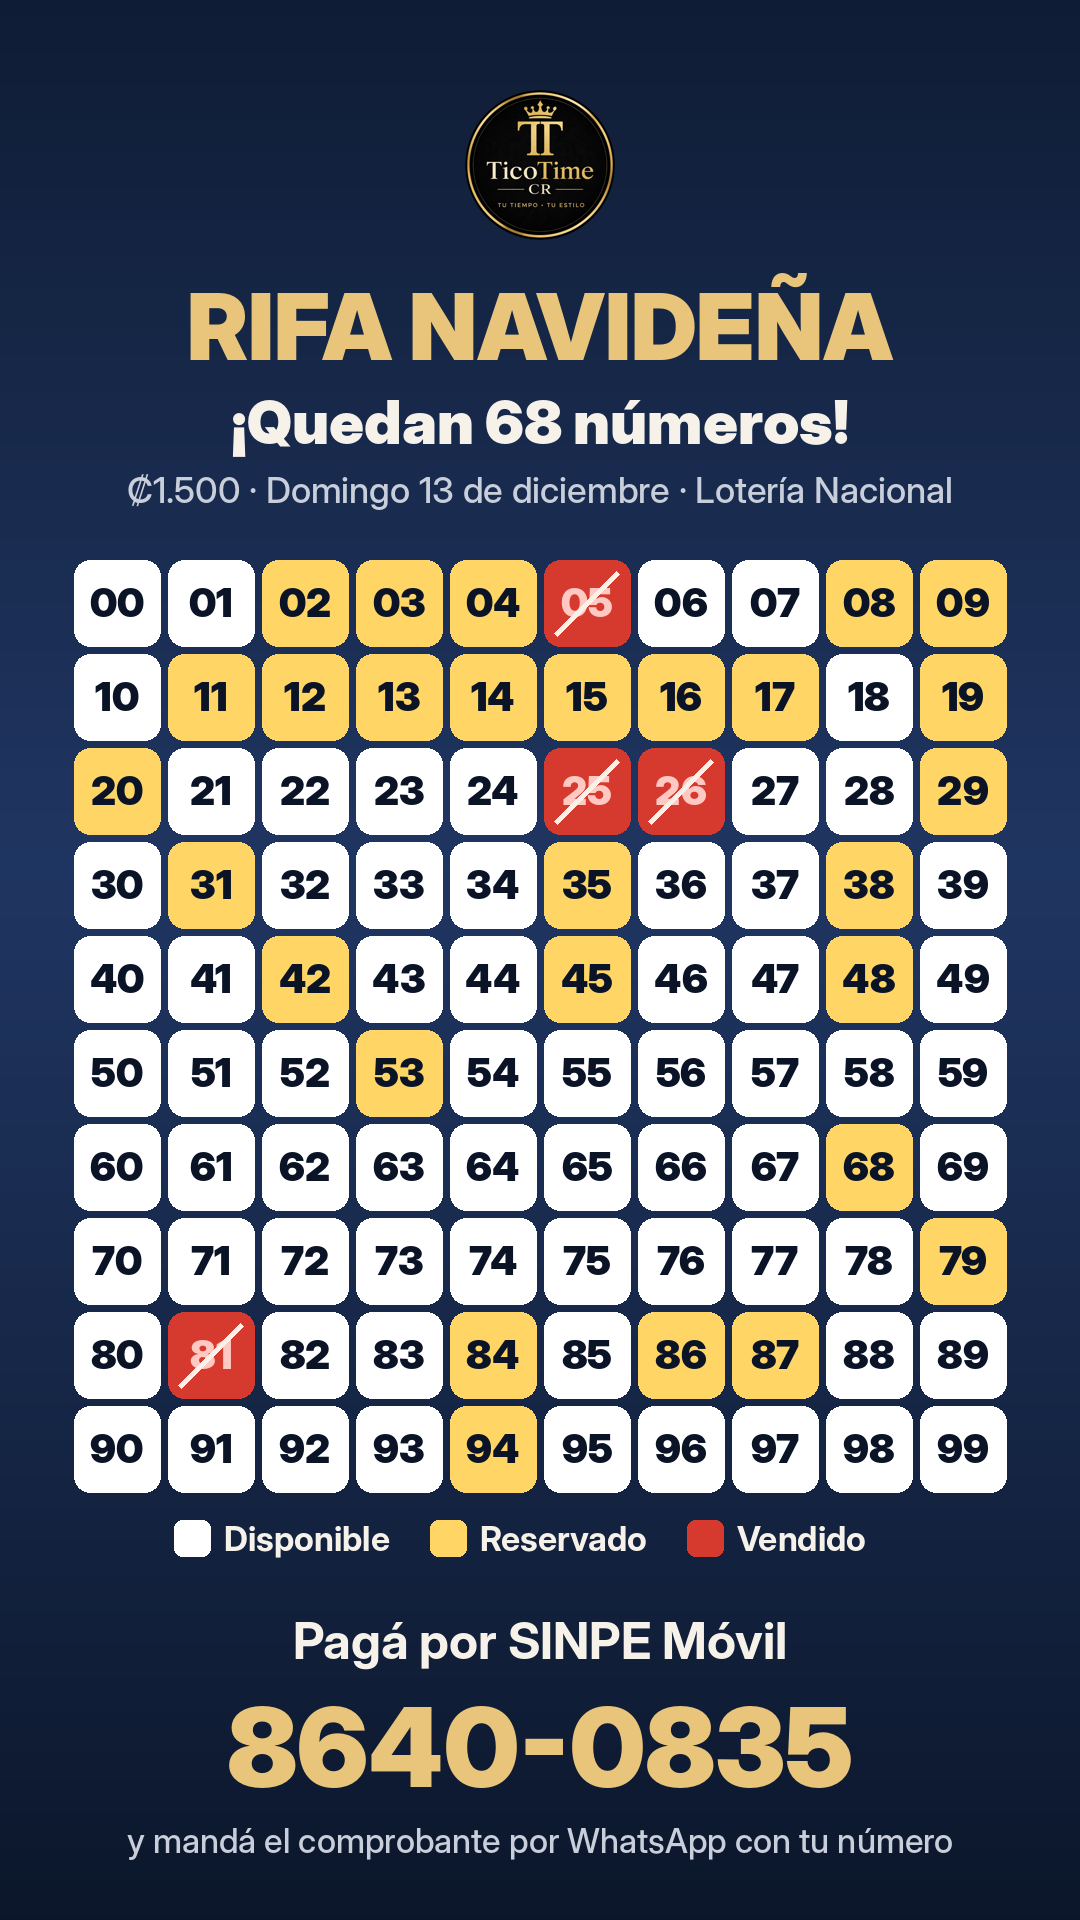
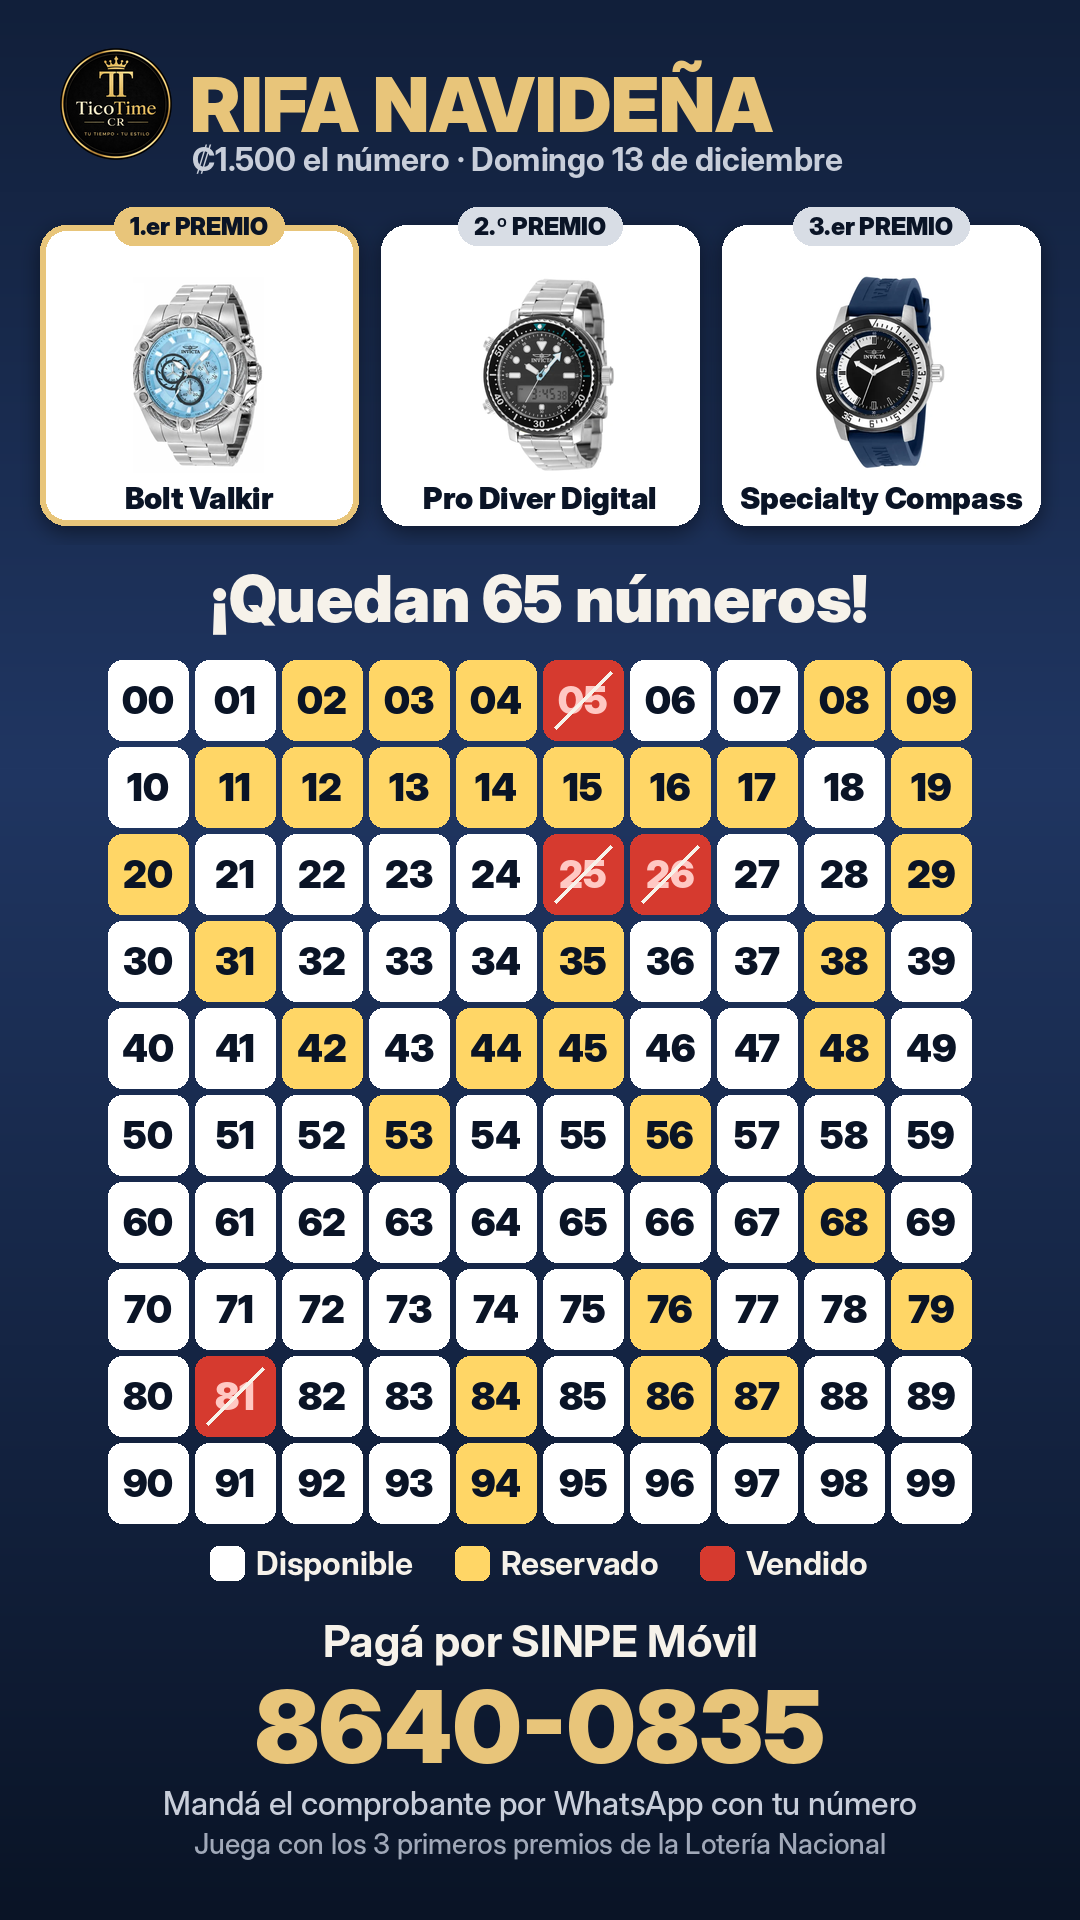
Rifa: tablero con los 3 premios (65 libres)
Claude-Session: https://claude.ai/code/session_019bgvEJfhofkLun4Az8h5UL

diff --git a/social/engine/make_tablero_rifa.py b/social/engine/make_tablero_rifa.py
@@ -1,41 +1,55 @@
-# Historia 1080x1920 con el tablero 00-99 de la rifa (vendidos tachados).
+# Historia 1080x1920 con los 3 premios y el tablero 00-99 de la rifa (vendidos tachados).
 # uso: python3 social/engine/make_tablero_rifa.py "01,15,33" ["07,08"]   (pagados, reservados opcional)
 #      -> social/reels/rifa-tablero.png
 import sys, os
-from PIL import Image, ImageDraw, ImageFont
+from PIL import Image, ImageDraw, ImageFont, ImageFilter
 ROOT=os.path.dirname(os.path.dirname(os.path.dirname(os.path.abspath(__file__))))
 W,H=1080,1920
 BLK='/usr/share/fonts/opentype/inter/InterDisplay-Black.otf'; BLD='/usr/share/fonts/opentype/inter/InterDisplay-Bold.otf'; MED='/usr/share/fonts/opentype/inter/InterDisplay-Medium.otf'
-GOLD=(232,197,122); WHITE=(246,242,234); RED=(214,58,47); NAVY=(10,20,38); YEL=(255,214,102)
+GOLD=(232,197,122); WHITE=(246,242,234); RED=(214,58,47); NAVY=(10,20,38); YEL=(255,214,102); MUT=(200,206,218)
 def nums(s): return {int(x) for x in s.replace(' ','').split(',') if x.strip().isdigit()}
 pag=nums(sys.argv[1]) if len(sys.argv)>1 else set(); res=nums(sys.argv[2]) if len(sys.argv)>2 else set(); res-=pag
 im=Image.new('RGB',(W,H),NAVY); d=ImageDraw.Draw(im)
 for y in range(H):
-    k=1-abs(y-H*0.45)/(H*0.6); d.line([(0,y),(W,y)],fill=(int(10+22*k),int(20+34*k),int(38+60*k)))
+    k=max(0,1-abs(y-H*0.4)/(H*0.6)); d.line([(0,y),(W,y)],fill=(int(10+22*k),int(20+34*k),int(38+60*k)))
 F=lambda p,s: ImageFont.truetype(p,s)
-def ct(y,t,f,c):
-    w=d.textlength(t,font=f); d.text(((W-w)/2,y),t,font=f,fill=c)
-logo=Image.open(os.path.join(ROOT,'public/assets/logo.png')).convert('RGBA').resize((150,150)); im.paste(logo,((W-150)//2,90),logo)
-ct(270,'RIFA NAVIDEÑA',F(BLK,92),GOLD)
+def ct(y,t,f,c,cx=W/2):
+    w=d.textlength(t,font=f); d.text((cx-w/2,y),t,font=f,fill=c)
+# encabezado
+logo=Image.open(os.path.join(ROOT,'public/assets/logo.png')).convert('RGBA').resize((112,112),Image.LANCZOS); im.paste(logo,(60,48),logo)
+d.text((190,58),'RIFA NAVIDEÑA',font=F(BLK,76),fill=GOLD)
+d.text((192,140),'₡1.500 el número · Domingo 13 de diciembre',font=F(BLD,32),fill=MUT)
+# premios
+PZ=[('323','1.er PREMIO','Bolt Valkir',GOLD),('313','2.º PREMIO','Pro Diver Digital',(216,221,229)),('347','3.er PREMIO','Specialty Compass',(216,221,229))]
+cw,ch,gap=318,300,23; x=(W-3*cw-2*gap)//2; y0=225
+for ref,lab,name,col in PZ:
+    sh=Image.new('RGBA',(cw+40,ch+40),(0,0,0,0)); ImageDraw.Draw(sh).rounded_rectangle([20,26,cw+20,ch+26],26,fill=(0,0,0,120)); im.paste(sh.filter(ImageFilter.GaussianBlur(10)),(x-20,y0-20),sh.filter(ImageFilter.GaussianBlur(10)))
+    d.rounded_rectangle([x,y0,x+cw,y0+ch],26,fill=(255,255,255),outline=col if ref=='323' else None,width=6)
+    w=Image.open(os.path.join(ROOT,f'public/assets/disponibles/{ref}.webp')).convert('RGB'); s=min((cw-40)/w.width,(ch-96)/w.height); w=w.resize((int(w.width*s),int(w.height*s)),Image.LANCZOS)
+    im.paste(w,(x+(cw-w.width)//2,y0+44))
+    f=F(BLK,24); tw=d.textlength(lab,font=f); d.rounded_rectangle([x+cw/2-tw/2-16,y0-18,x+cw/2+tw/2+16,y0+20],20,fill=col); d.text((x+cw/2-tw/2,y0-14),lab,font=f,fill=NAVY)
+    ct(y0+ch-46,name,F(BLK,30),NAVY,x+cw/2)
+    x+=cw+gap
+# cuántos quedan
 libres=100-len(pag)-len(res)
-ct(385,f'¡Quedan {libres} números!' if libres<100 else '¡Todos los números disponibles!',F(BLK,60),WHITE)
-ct(468,'₡1.500 · Domingo 13 de diciembre · Lotería Nacional',F(MED,36),(200,206,218))
-x0,y0,cs,g=70,560,86,8
+ct(560,f'¡Quedan {libres} números!' if libres<100 else '¡Todos los números disponibles!',F(BLK,64),WHITE)
+# tablero
+cs,g=80,7; gx=(W-10*cs-9*g)//2; gy=660
 for n in range(100):
-    r,c=divmod(n,10); x=x0+c*(cs+g)+ (W-2*x0-10*cs-9*g)//2; y=y0+r*(cs+g)
+    r,c=divmod(n,10); x=gx+c*(cs+g); y=gy+r*(cs+g); t=f'{n:02d}'; f=F(BLK,38); w=d.textlength(t,font=f)
     if n in pag:
-        d.rounded_rectangle([x,y,x+cs,y+cs],16,fill=RED); t=f'{n:02d}'; f=F(BLK,40); w=d.textlength(t,font=f)
-        d.text((x+(cs-w)/2,y+18),t,font=f,fill=(255,200,195)); d.line([(x+12,y+cs-12),(x+cs-12,y+12)],fill=WHITE,width=6)
+        d.rounded_rectangle([x,y,x+cs,y+cs],14,fill=RED); d.text((x+(cs-w)/2,y+17),t,font=f,fill=(255,200,195)); d.line([(x+12,y+cs-12),(x+cs-12,y+12)],fill=WHITE,width=5)
     elif n in res:
-        d.rounded_rectangle([x,y,x+cs,y+cs],16,fill=YEL); t=f'{n:02d}'; f=F(BLK,40); w=d.textlength(t,font=f); d.text((x+(cs-w)/2,y+18),t,font=f,fill=NAVY)
+        d.rounded_rectangle([x,y,x+cs,y+cs],14,fill=YEL); d.text((x+(cs-w)/2,y+17),t,font=f,fill=NAVY)
     else:
-        d.rounded_rectangle([x,y,x+cs,y+cs],16,fill=(255,255,255)); t=f'{n:02d}'; f=F(BLK,40); w=d.textlength(t,font=f); d.text((x+(cs-w)/2,y+18),t,font=f,fill=NAVY)
-yl=y0+10*(cs+g)+20
+        d.rounded_rectangle([x,y,x+cs,y+cs],14,fill=(255,255,255)); d.text((x+(cs-w)/2,y+17),t,font=f,fill=NAVY)
+yl=gy+10*(cs+g)+14
 items=[((255,255,255),'Disponible'),(YEL,'Reservado'),(RED,'Vendido')]
-fx=F(BLD,34); tot=sum(50+d.textlength(t,font=fx)+40 for _,t in items); x=(W-tot)/2
+fx=F(BLD,32); tot=sum(48+d.textlength(t,font=fx)+40 for _,t in items)-40; x=(W-tot)/2
 for c,t in items:
-    d.rounded_rectangle([x,yl,x+36,yl+36],8,fill=c); d.text((x+50,yl-2),t,font=fx,fill=WHITE); x+=50+d.textlength(t,font=fx)+40
-ct(yl+90,'Pagá por SINPE Móvil',F(BLD,50),WHITE)
-ct(yl+160,'8640-0835',F(BLK,110),GOLD)
-ct(yl+300,'y mandá el comprobante por WhatsApp con tu número',F(MED,34),(200,206,218))
-out=os.path.join(ROOT,'social/reels/rifa-tablero.png'); im.save(out); print('ok',out,'libres',libres)
+    d.rounded_rectangle([x,yl+2,x+34,yl+36],8,fill=c); d.text((x+46,yl),t,font=fx,fill=WHITE); x+=48+d.textlength(t,font=fx)+40
+ct(yl+70,'Pagá por SINPE Móvil',F(BLD,44),WHITE)
+ct(yl+122,'8640-0835',F(BLK,100),GOLD)
+ct(yl+240,'Mandá el comprobante por WhatsApp con tu número',F(MED,32),MUT)
+ct(yl+282,'Juega con los 3 primeros premios de la Lotería Nacional',F(MED,28),(160,168,184))
+out=os.path.join(ROOT,'social/reels/rifa-tablero.png'); im.save(out); print('ok',out,'libres',libres,'alto usado',yl+320)
